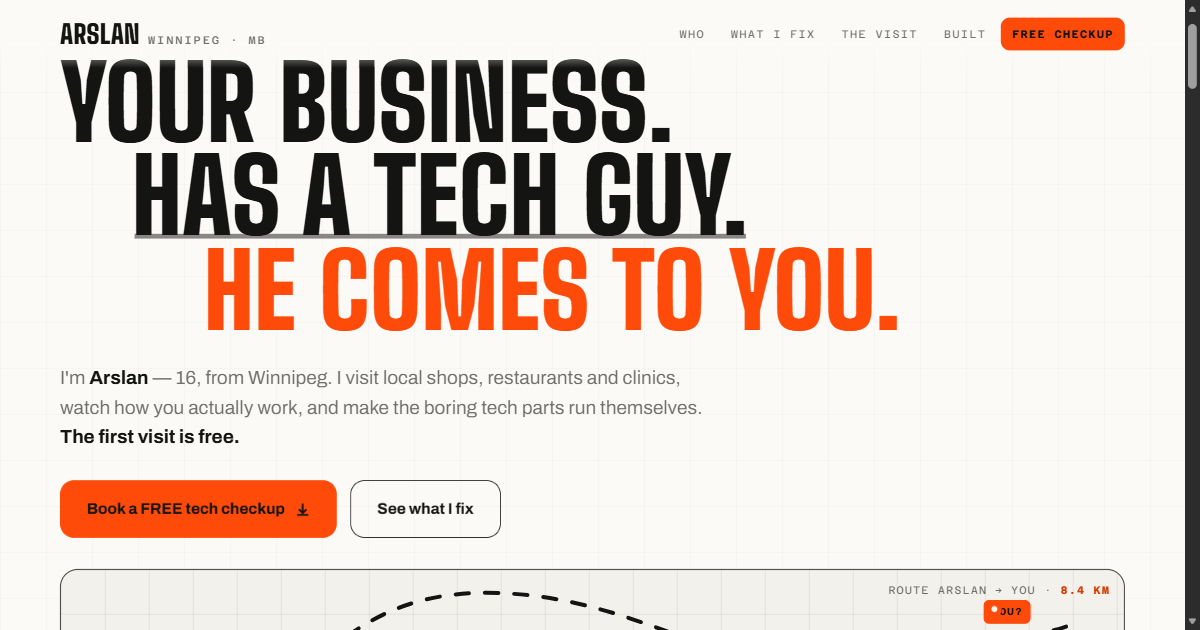
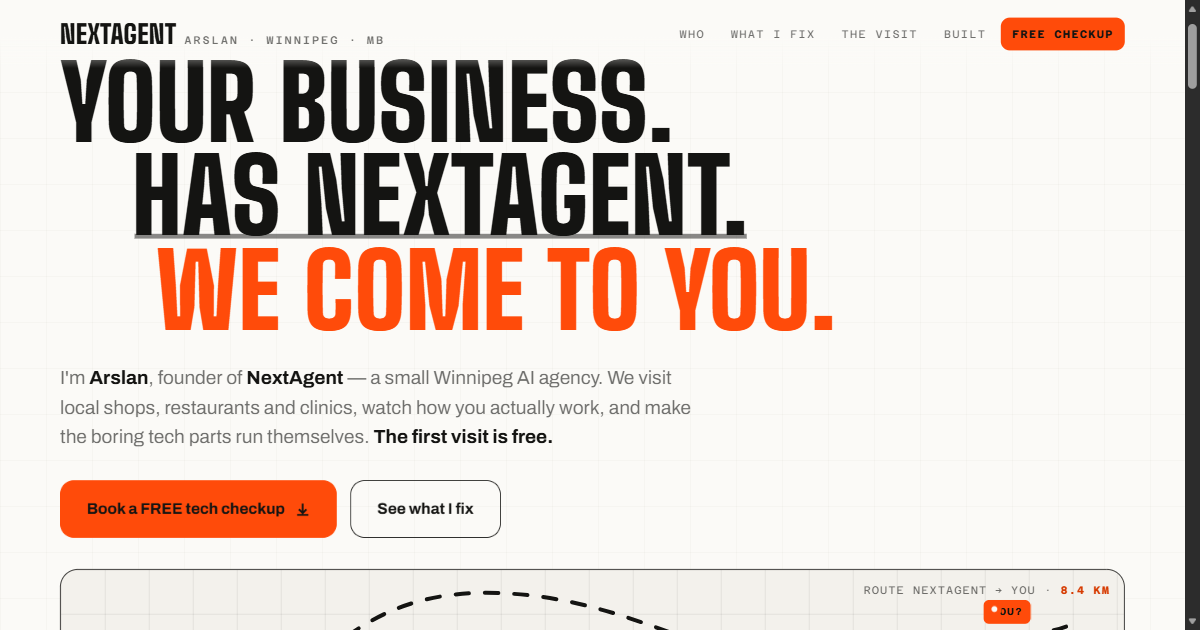
Rebrand: NextAgent as the agency brand, Arslan as founder

diff --git a/index.html b/index.html
@@ -3,15 +3,16 @@
 <head>
 <meta charset="UTF-8">
 <meta name="viewport" content="width=device-width, initial-scale=1.0, viewport-fit=cover">
-<title>Arslan — The Tech Guy for Winnipeg Businesses · Free Tech Checkup</title>
-<meta name="description" content="Arslan is a 16-year-old builder from Winnipeg who visits local businesses, sees how you actually work, and makes the tech parts run themselves. AI, automation, websites. First visit is free.">
-<meta property="og:title" content="Arslan — the tech guy who comes to you">
-<meta property="og:description" content="Winnipeg businesses: I visit, I look at how you work, I make the boring tech parts run themselves. First visit free.">
+<title>NextAgent — The Tech Team for Winnipeg Businesses · Free Tech Checkup</title>
+<meta name="description" content="NextAgent is a Winnipeg AI agency led by Arslan. We visit local businesses, see how you actually work, and make the tech parts run themselves. AI, automation, websites. First visit is free.">
+<meta property="og:title" content="NextAgent — the tech team that comes to you">
+<meta property="og:description" content="Winnipeg businesses: we visit, we look at how you work, we make the boring tech parts run themselves. First visit free.">
+<meta property="og:site_name" content="NextAgent">
 <meta property="og:type" content="website">
 <meta property="og:image" content="https://arslan-site.vercel.app/og-image.png">
 <meta property="og:image:width" content="1200">
 <meta property="og:image:height" content="630">
-<meta property="og:image:alt" content="Arslan — your business has a tech guy. He comes to you. Winnipeg's 16-year-old tech guy; first visit free.">
+<meta property="og:image:alt" content="NextAgent — your business has a tech team. We come to you. Winnipeg's AI agency for local businesses; first visit free.">
 <meta name="twitter:card" content="summary_large_image">
 <meta name="theme-color" content="#FBFAF7">
 <script>document.documentElement.classList.add("js");</script>
@@ -22,23 +23,43 @@
 <script type="application/ld+json">
 {
   "@context": "https://schema.org",
-  "@type": "Person",
-  "name": "Arslan Sohail",
-  "email": "mailto:arslansohail039@gmail.com",
-  "jobTitle": "Tech & AI helper for local businesses",
-  "address": {
-    "@type": "PostalAddress",
-    "addressLocality": "Winnipeg",
-    "addressRegion": "MB",
-    "addressCountry": "CA"
-  },
-  "knowsAbout": ["AI automation", "small business websites", "business process automation"],
-  "makesOffer": {
-    "@type": "Offer",
-    "name": "Free tech checkup for local businesses",
-    "price": "0",
-    "priceCurrency": "CAD"
-  }
+  "@graph": [
+    {
+      "@type": "Organization",
+      "@id": "#nextagent",
+      "name": "NextAgent",
+      "url": "https://nextagent.site",
+      "slogan": "Winnipeg's tech team for local businesses",
+      "address": {
+        "@type": "PostalAddress",
+        "addressLocality": "Winnipeg",
+        "addressRegion": "MB",
+        "addressCountry": "CA"
+      },
+      "founder": { "@id": "#arslan" },
+      "makesOffer": {
+        "@type": "Offer",
+        "name": "Free tech checkup for local businesses",
+        "price": "0",
+        "priceCurrency": "CAD"
+      }
+    },
+    {
+      "@type": "Person",
+      "@id": "#arslan",
+      "name": "Arslan Sohail",
+      "email": "mailto:arslansohail039@gmail.com",
+      "jobTitle": "Founder of NextAgent — tech & AI for local businesses",
+      "worksFor": { "@id": "#nextagent" },
+      "address": {
+        "@type": "PostalAddress",
+        "addressLocality": "Winnipeg",
+        "addressRegion": "MB",
+        "addressCountry": "CA"
+      },
+      "knowsAbout": ["AI automation", "small business websites", "business process automation"]
+    }
+  ]
 }
 </script>
 <style>
@@ -438,7 +459,7 @@ footer{position:relative;z-index:2;border-top:1.5px solid var(--ink);padding:34p
 </div>
 
 <header style="padding-left:calc(var(--pad) + env(safe-area-inset-left));padding-right:calc(var(--pad) + env(safe-area-inset-right))">
-  <a class="wordmark" href="#top">ARSLAN <small>WINNIPEG · MB</small></a>
+  <a class="wordmark" href="#top">NEXTAGENT <small>ARSLAN · WINNIPEG · MB</small></a>
   <nav aria-label="Main">
     <a href="#who">Who</a>
     <a href="#fix">What I fix</a>
@@ -454,12 +475,13 @@ footer{position:relative;z-index:2;border-top:1.5px solid var(--ink);padding:34p
   <section class="hero" aria-label="Introduction">
     <h1 class="hero-beats" aria-hidden="false">
       <span class="beat beat-reveal" style="animation-delay:.1s">YOUR BUSINESS.</span>
-      <span class="beat beat-reveal" style="animation-delay:.35s"><span class="jitter-line">HAS A TECH GUY.</span></span>
-      <span class="beat beat-reveal" style="animation-delay:.6s">HE COMES TO YOU.</span>
+      <span class="beat beat-reveal" style="animation-delay:.35s"><span class="jitter-line">HAS NEXTAGENT.</span></span>
+      <span class="beat beat-reveal" style="animation-delay:.6s">WE COME TO YOU.</span>
     </h1>
     <p class="hero-sub beat-reveal" style="animation-delay:.85s">
-      I'm <strong>Arslan</strong> — 16, from Winnipeg. I visit local shops, restaurants and clinics,
-      watch how you actually work, and make the boring tech parts run themselves.
+      I'm <strong>Arslan</strong>, founder of <strong>NextAgent</strong> — a small Winnipeg AI agency.
+      We visit local shops, restaurants and clinics, watch how you actually work,
+      and make the boring tech parts run themselves.
       <strong>The first visit is free.</strong>
     </p>
     <div class="hero-ctas beat-reveal" style="animation-delay:1s">
@@ -471,7 +493,7 @@ footer{position:relative;z-index:2;border-top:1.5px solid var(--ink);padding:34p
     </div>
 
     <div class="hero-map" aria-hidden="true">
-      <span class="hero-km">ROUTE ARSLAN → YOU · <b id="hero-km">8.4 KM</b></span>
+      <span class="hero-km">ROUTE NEXTAGENT → YOU · <b id="hero-km">8.4 KM</b></span>
       <svg viewBox="0 0 800 220" preserveAspectRatio="xMidYMid slice">
         <path id="hero-route" d="M 60 168 C 190 168 190 64 320 64 S 520 150 640 118 S 740 96 760 88"
               fill="none" stroke="#141412" stroke-width="3" stroke-dasharray="10 12" stroke-linecap="round"/>
@@ -499,7 +521,7 @@ footer{position:relative;z-index:2;border-top:1.5px solid var(--ink);padding:34p
   </div>
 
   <!-- ================= STOP 1 — WHO ================= -->
-  <section class="stop" id="who" data-hud="WHO IS THIS KID" aria-label="Who I am">
+  <section class="stop" id="who" data-hud="WHO IS NEXTAGENT" aria-label="Who we are">
     <div class="stop-head rv">
       <span class="stop-plaque">
         <svg viewBox="0 0 24 24" aria-hidden="true"><path d="M12 2C7.5 2 4 5.5 4 10c0 6.5 8 12 8 12s8-5.5 8-12c0-4.5-3.5-8-8-8z" fill="#141412"/><circle cx="12" cy="10" r="3.2" fill="#FBFAF7"/></svg>
@@ -511,18 +533,18 @@ footer{position:relative;z-index:2;border-top:1.5px solid var(--ink);padding:34p
       <div>
         <h2 class="display rv">Hey — I'm the kid who fixes the <em>tech</em> so you can run the business.</h2>
         <p class="lede rv">
-          I'm Arslan. I'm 16, I live in Winnipeg, and I've been shipping software for years:
-          <strong>over 10 finished projects</strong>, from AI tools to full websites.
-          Now I bring that to the businesses on my street. You know the ones: the Wi-Fi drops,
+          I'm Arslan, 16, and NextAgent is my agency — a small Winnipeg crew of me and the
+          AI systems I've built. <strong>Over 10 finished projects</strong>, from AI tools to full websites.
+          Now we bring that to the businesses on my street. You know the ones: the Wi-Fi drops,
           the bookings live on paper, and nobody has time for "digital transformation."
         </p>
         <p class="lede rv">
-          I don't talk jargon. I come to <strong>your</strong> place, watch how your day actually runs,
-          and tell you plainly what's slowing you down, and what it would take to fix it.
+          I don't talk jargon. When you book, <strong>I</strong> come to your place, watch how your day actually runs,
+          and tell you plainly what's slowing you down. The rest of the team — the AI side — starts working the moment I'm back at my desk.
         </p>
       </div>
       <div class="fact-card rv">
-        <h3>Route manifest · ARSLAN</h3>
+        <h3>Route manifest · NEXTAGENT</h3>
         <dl class="fact-rows">
         <div class="fact-row"><dt>Base</dt><dd>Winnipeg, MB</dd></div>
         <div class="fact-row"><dt>Age</dt><dd>16 <em>&amp; shipping</em></dd></div>
@@ -637,7 +659,7 @@ footer{position:relative;z-index:2;border-top:1.5px solid var(--ink);padding:34p
       <span class="stop-km">KM 7.1</span>
     </div>
     <h2 class="display rv">Things I've <em>built.</em></h2>
-    <p class="lede rv">All live. All made by one 16-year-old with too many ideas. Click any of them.</p>
+    <p class="lede rv">All live. All built in-house at NextAgent. Click any of them.</p>
     <div class="built-list rv" style="margin-top:clamp(28px,4vh,44px)">
       <a class="built-row" href="https://nextagent.site" target="_blank" rel="noopener">
         <span class="built-name">NextAgent</span>
@@ -726,7 +748,7 @@ footer{position:relative;z-index:2;border-top:1.5px solid var(--ink);padding:34p
       </form>
       <div class="booked" id="booked">
         <span class="stamp">Booked ✓</span>
-        <p>Got it. I'll reply to you personally — usually the same day.<br><strong>Check your inbox for "Arslan · Winnipeg".</strong></p>
+        <p>Got it. I'll reply to you personally — usually the same day.<br><strong>Check your inbox for "NextAgent · Winnipeg".</strong></p>
       </div>
     </div>
   </section>
@@ -735,7 +757,7 @@ footer{position:relative;z-index:2;border-top:1.5px solid var(--ink);padding:34p
 <footer data-hud="ROUTE COMPLETE">
   <div class="foot-grid">
     <div>
-      <p class="foot-big">ARSLAN <span>SOHAIL</span><br>WINNIPEG'S TECH GUY</p>
+      <p class="foot-big">NEXTAGENT<br>WINNIPEG'S <span>TECH TEAM</span></p>
       <div class="legend" aria-hidden="true">
         <svg viewBox="0 0 60 24"><path d="M2 18 C 14 18 14 8 28 8 S 50 16 58 10" fill="none" stroke="#141412" stroke-width="2.5" stroke-dasharray="6 7" stroke-linecap="round"/></svg>
         <span>One kid · One route · Free first visit</span>
@@ -744,7 +766,7 @@ footer{position:relative;z-index:2;border-top:1.5px solid var(--ink);padding:34p
     <div class="foot-mono">
       <a href="mailto:arslansohail039@gmail.com">arslansohail039@gmail.com</a><br>
       Winnipeg, Manitoba · Canada<br>
-      Part of <a href="https://nextagent.site" target="_blank" rel="noopener">NextAgent</a>, my AI agency<br>
+      A service by <a href="https://nextagent.site" target="_blank" rel="noopener">NextAgent</a>, Winnipeg AI agency<br>
       © <span id="year">2026</span> Arslan Sohail
     </div>
   </div>
@@ -979,7 +1001,7 @@ footer{position:relative;z-index:2;border-top:1.5px solid var(--ink);padding:34p
       body: JSON.stringify({
         name: name, business: biz, contact: contact,
         message: els.message.value.trim(),
-        _subject: "Free tech checkup — " + biz,
+        _subject: "NextAgent — free tech checkup — " + biz,
         _template: "table",
         _captcha: "false"
       })

diff --git a/outreach.html b/outreach.html
@@ -186,18 +186,19 @@ a{color:var(--action-ink)}
 "\n" +
 "Hi there,\n" +
 "\n" +
-"I'm Arslan — I'm 16, I live right here in Winnipeg, and I build software for local businesses.\n" +
+"I'm Arslan, founder of NextAgent — a small AI agency based right here in Winnipeg.\n" +
 "\n" +
-"I've been to {business} and I noticed [ONE SPECIFIC THING — e.g. the online menu is hard to find / bookings are by phone only]. I fix exactly that kind of thing: websites that show up on Google, online booking with automatic reminders, and simple AI that answers your common questions so you're not stuck on the phone.\n" +
+"I've been to {business} and I noticed [ONE SPECIFIC THING — e.g. the online menu is hard to find / bookings are by phone only]. That's exactly what we fix: websites that show up on Google, online booking with automatic reminders, and simple AI that answers your common questions so you're not stuck on the phone.\n" +
 "\n" +
-"I'm offering a free checkup — I come by, watch how your day runs, and give you a plain-English list of what's slowing you down. You keep the list no matter what. If nothing's worth fixing, you'll never hear from me again.\n" +
+"I'm offering a free checkup — I come by, watch how your day runs, and give you a plain-English list of what's slowing you down. You keep the list no matter what. If nothing's worth fixing, you'll never hear from us again.\n" +
 "\n" +
 "Worth 20 minutes? Just reply to this email.\n" +
 "\n" +
 "— Arslan\n" +
+"NextAgent · nextagent.site\n" +
 "arslansohail039@gmail.com\n" +
 "Winnipeg, MB · [your mailing address / area]\n" +
-"PS — Not interested? Reply \"no thanks\" and I won't email again.";
+"PS — Not interested? Reply \"no thanks\" and we won't email again.";
 
   var state = load();
   var tplEl = $("#tpl");

diff --git a/README.md b/README.md
@@ -1,6 +1,6 @@
-# Arslan — The Tech Guy for Winnipeg Businesses
+# NextAgent — The Tech Team for Winnipeg Businesses
 
-Personal profile site for **Arslan Sohail** (16, Winnipeg, MB). He visits local businesses — restaurants, clinics, salons, gyms, auto shops — watches how they actually work, and makes the boring tech parts run themselves. First visit is free.
+**NextAgent** is Arslan Sohail's Winnipeg AI agency. The site sells one offer: we visit local businesses — restaurants, clinics, salons, gyms, auto shops — watch how they actually work, and make the boring tech parts run themselves. First visit is free. Run by **Arslan** (founder) with the NextAgent AI bench behind him.
 
 **Live:** https://arslan-site.vercel.app *(once deployed)*
 
@@ -13,7 +13,7 @@ Personal profile site for **Arslan Sohail** (16, Winnipeg, MB). He visits local 
 
 ## Design
 
-The site is built around one idea: **"I come to you."** It's styled as a service route on a paper map of Winnipeg — one dashed route line draws itself down the page as you scroll, every section is a numbered stop, a fixed HUD readout tracks the km traveled, and the last stop is the visitor's own door (the booking form). Palette: paper white, one ink, one safety orange. Type: Big Shoulders (display), Archivo (UI), Azeret Mono (annotations).
+The site is built around one idea: **"We come to you."** It's styled as a service route on a paper map of Winnipeg — one dashed route line draws itself down the page as you scroll, every section is a numbered stop, a fixed HUD readout tracks the km traveled, and the last stop is the visitor's own door (the booking form). Palette: paper white, one ink, one safety orange. Type: Big Shoulders (display), Archivo (UI), Azeret Mono (annotations).
 
 ## The free stack
 
